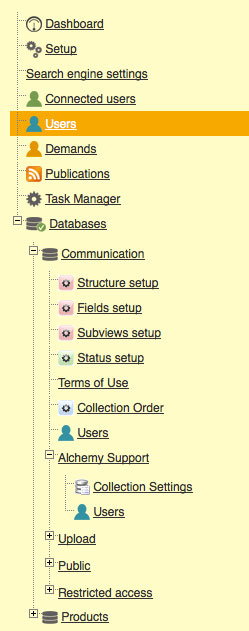
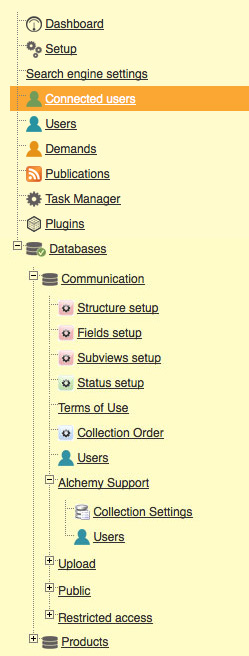
Introducing plugin section in Phraseanet Admin as part of 3.8.7

diff --git a/fr/User/Manuel/AdministrationSolution.rst b/fr/User/Manuel/AdministrationSolution.rst
@@ -29,7 +29,7 @@ serveurs web qui entrent dans la mise en oeuvre de Phraseanet.
 Paramétrage
 -----------
 
-**Accessible aux seuls administrateurs Phraseanet**, l'écran de Paramétrage
+**Accessible aux seuls administrateurs Phraseanet**, l'écran Paramétrage
 propose une interface graphique permettant de modifier des paramètres
 d'installation et de configuration de l'instance Phraseanet.
 
@@ -54,9 +54,8 @@ Le jeu de formulaires permet :
 Paramétrage du moteur de recherche
 ----------------------------------
 
-Réservée aux administrateurs systèmes chargés de déployer Phraseanet, cette
-rubrique permet de configurer le moteur de recherche utilisé par l'instance
-au moyen d'une interface graphique.
+Réservée aux administrateurs Phraseanet, cette rubrique permet de configurer le
+moteur de recherche utilisé par l'instance au moyen d'une interface graphique.
 
 .. seealso::
 
@@ -75,8 +74,7 @@ L'interface propose :
 Configuration du moteur Sphinx
 ******************************
 
-Le formulaire permet de configurer le paramétrage du moteur de recherche
-Sphinx utilisé.
+Le formulaire permet de configurer le moteur de recherche Sphinx utilisé.
 
 Utilisateurs connectés
 ----------------------
@@ -99,7 +97,7 @@ diffusés à partir de l'application.
     :align: center
 
 L'écran liste les flux médias disponibles et permet d'en créer, d'en modifier
-et d'en supprimer.
+ou d'en supprimer.
 
 .. _Creer-un-flux-de-publication:
 
@@ -131,7 +129,7 @@ Gestionnaire de tâches
 **Accessible aux seuls administrateurs Phraseanet**, la rubrique permet de
 gérer les tâches qui concourent au fonctionnement de l'application.
 
-Les tâches sont listées dans un tableau qui indique leurs identifiants,
+Les tâches sont listées dans un tableau indiquant leurs identifiants,
 activités et noms.
 
 Tâches standards
@@ -179,3 +177,9 @@ Dans certains cas, une vue graphique simule l'exécution de la tâche.
 .. seealso::
 
     :doc:`Se reporter à la page consacrée au moteur de tâches<../../Admin/MoteurDeTaches>`.
+
+Plugins
+-------
+
+Depuis la version 3.8.7, la rubrique Plugins liste les extensions
+complémentaires installées sur l'instance.

diff --git a/en/User/Guide/AdministrationSolution.rst b/en/User/Guide/AdministrationSolution.rst
@@ -178,3 +178,9 @@ In some cases, the graphical view simulates the task's execution.
 .. seealso::
 
     :doc:`Refer to the page dedicated to the Task manager in the Administration manual <../../Admin/TaskManager>`.
+
+Plugins
+-------
+
+From version 3.8.7, this section lists additional extensions installed on
+the instance.
